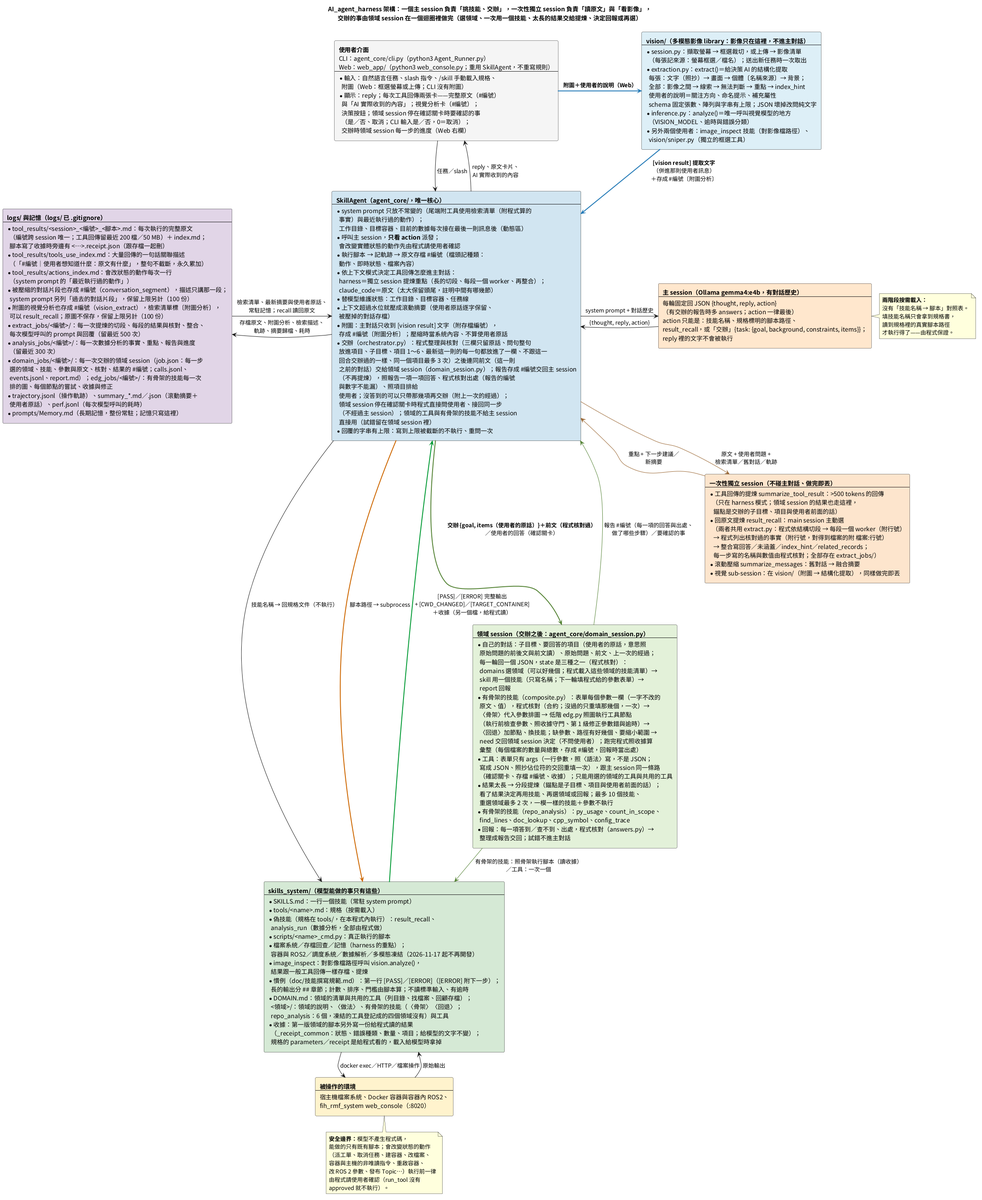
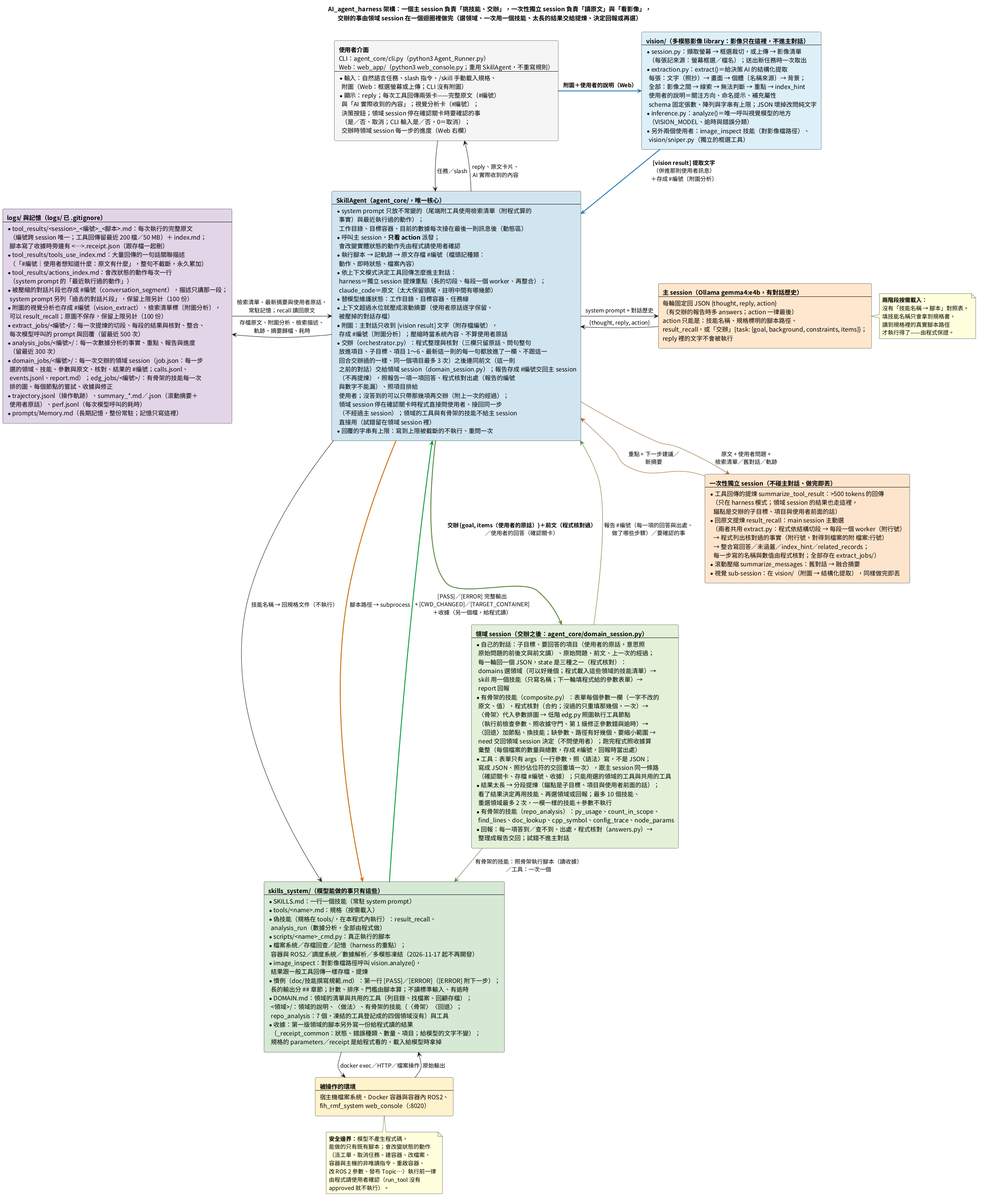
feat: Round 52 - composite skill node_params: ROS node parameters and defaults (B2b)
- repo_analysis gets node_params: given the node's package or directory, the
  program searches its C++ and Python sources for parameter declarations and
  lists each line (name and default on that line). The search patterns live
  only in the skeleton (stripped from the model-facing spec); the skill text
  says when to use it versus config_trace and cpp_symbol. A first version
  that also matched reads with context truncated at 10 lines per file on the
  real snapshot, so it lists declarations only.
- Test t_node_params (domain 41; pre-change code 40/41).
- Results (design notes 2.95): e4b cpp_rf2o_params 0/3 -> 3/3 (1/20 since
  round 32), 26b 3/3; 26b main 22, 24, 24; e4b simple 37 -> 41; ops main
  12/12 with no forbidden actions; chat unchanged.
- Architecture doc skills table, overview diagram and a new node_params flow
  diagram (local PlantUML), doc/README captions.

Changed region(s): [[0.464, 0.5288, 0.6805, 0.7154]]

diff --git a/evals/domain/selftest.py b/evals/domain/selftest.py
@@ -69,6 +69,27 @@ CAM_FILES = {       # cpp_symbol 分開宣告與定義（t_cpp_defs 寫進臨時
                              "  ++n_;\n}\n}  // namespace cam\n",
 }
 SESSION_MARK = "你是領域 session"
+NODE_FILES = {   # ROS 節點的參數與預設值（框架討論紀錄第 52 輪的 node_params）：一個 C++ 節點、一個 Python 節點
+    "ndemo/src/demo_node.cpp": (
+        '#include "rclcpp/rclcpp.hpp"\n'
+        'class DemoNode : public rclcpp::Node {\n'
+        ' public:\n'
+        '  DemoNode() : Node("demo_node") {\n'
+        '    this->declare_parameter<std::string>("input_topic", "/demo_in");\n'
+        '    this->declare_parameter<double>("rate_hz", 5.0);\n'
+        '    rate_ = this->get_parameter("rate_hz").as_double();\n'
+        '  }\n'
+        ' private:\n'
+        '  double rate_;\n'
+        '};\n'),
+    "ndemo/scripts/demo_py.py": (
+        "from rclpy.node import Node\n\n\n"
+        "class DemoPy(Node):\n"
+        "    def __init__(self):\n"
+        '        super().__init__("demo_py")\n'
+        '        self.declare_parameter("frame_name", "demo_frame")\n'),
+}
+
 
 
 def task(goal, items):
@@ -918,6 +939,28 @@ def main():
             hits = shown.split("— 提到這些名稱的行", 1)[1]
             assert "grabFrame();" in hits, ("宣告在搜尋那一份", hits[:600])
 
+        def t_node_params():
+            # ROS 節點的參數與預設值（框架討論紀錄第 52 輪的（B2b））：node_params 在節點的目錄搜宣告參數的那一行（C++ 與 Python，預設值寫在那一行）
+            # ——搜的寫法在〈骨架〉，給模型看的規格沒有；讀取參數的那一行（沒有預設值）不列
+            for rel, text in NODE_FILES.items():
+                os.makedirs(os.path.dirname(os.path.join(tmp, rel)), exist_ok=True)
+                with open(os.path.join(tmp, rel), "w", encoding="utf-8") as f:
+                    f.write(text)
+            q = "ndemo 這個節點宣告了哪些參數？預設值是多少？"
+            fake = FakeChat(main=[task("找 ndemo 節點宣告的參數與預設值", [q]), say("好")],
+                            session=[ds("domains", domains=["repo_analysis"]), ds("skill", skill="node_params"),
+                                     fill(params=[("node", "ndemo", "ndemo")])])
+            turn(q, fake)
+            st = next(s for s in last_job()["steps"] if s["kind"] == "composite")
+            assert st["skill"] == "node_params" and st["status"] == "done", (st["skill"], st["status"])
+            assert [o["tool"] for o in st["composite"]["outputs"]] == ["search_text"], st["composite"]
+            shown = fake.session_msgs(3)[-1]["content"]
+            for want in ('"input_topic", "/demo_in"', '"rate_hz", 5.0', '"frame_name", "demo_frame"'):
+                assert want in shown, (want, shown[:900])
+            assert 'get_parameter("rate_hz")' not in shown, ("讀取的那一行不列", shown[:900])
+            spec = skill_spec.for_model(open(os.path.join(tmp, "skills_system", "repo_analysis", "node_params.md"), encoding="utf-8").read())
+            assert "declare_parameter" not in spec, "搜的寫法只在骨架"
+
         def t_cover_parts():
             # 交辦的核對看每一句與「、」接的每一段（框架討論紀錄第 31 輪）：「。」結尾、要你做的句子也算；一句裡用「、」接的只抄一段不算——
             # 問句由程式整句放進項目（第 34 輪）、「。」結尾的交回，說明列出缺的那幾段；整句抄了、用「、」接的幾段抄在同一項就過
@@ -1152,7 +1195,7 @@ def main():
                          ("工具的參數表單：args 寫成 JSON、照抄佔位符、填「[]」的交回重填", t_form_tool),
                          ("有骨架的技能的彙整：程式照收據算的數量存成 #編號、總數照它寫就過核對", t_totals), ("回退換技能", t_composite_switch),
                          ("路徑有好幾個交回決定、0 筆照實交回", t_composite_need_and_empty), ("狀態與上限", t_states_limits),
-                         ("確認關卡", t_guard), ("確認關卡寫出之前做過同樣的動作（領域 session 的說明與交回主模型的文字）", t_guard_previous_domain), ("長的結果照舊提煉", t_long_output), ("再交辦帶著上一次的經過", t_previous),
+                         ("ROS 節點的參數與預設值：node_params 列出 C++ 與 Python 節點宣告參數的那幾行", t_node_params), ("確認關卡", t_guard), ("確認關卡寫出之前做過同樣的動作（領域 session 的說明與交回主模型的文字）", t_guard_previous_domain), ("長的結果照舊提煉", t_long_output), ("再交辦帶著上一次的經過", t_previous),
                          ("主 session 依報告回答的核對", t_main_check), ("依報告回答漏了報告的編號與數字：交回修一次", t_kept),
                          ("回答的文字寫了存檔的 #編號：交回修一次（回報與主 session 的回答；使用者自己寫了的、查不到的原因不擋）", t_archive_id),
                          ("每一句都要有歸屬：「。」結尾的句子漏了，一輪的第一次交辦交回一次、補上就過、交回過照收、之後的交辦不核對（「?」在字中間的不算句尾；問句由程式放進項目）", t_cover),

diff --git a/docs/框架討論紀錄.md b/docs/框架討論紀錄.md
@@ -112,6 +112,10 @@
 | 2026-11-27 | 第 51 輪（定案）：階段結束 | 提煉、主對話、第 1 級修正真模型全跑，維運再 2 次；真實專案 `ak1～3`、維運 `ak1`、主對話 `X` 沿用（同一份程式）；基準換成 b651ee6 的（第 2 節） |
 | 2026-11-27 | 第 51 輪：階段結束做完 | 26b 真實專案 68／75（舊的基準 66）、e4b 38／75（41，晃動的範圍；第 50 輪的交回沒有把答案改壞）、維運 31／36、10／12、12／21、禁止動作 1（比錯日期，主 session 直接執行）；基準換成 b651ee6 的（設計筆記 2.94）。等使用者：commit、下一個方向 |
 | 2026-11-27 | 第 52 輪：（B2）先量 | 使用者「依你建議進行」：基準與文件 commit（main）；下一步（B2）e4b 找 C++ 的方式——先在現有紀錄裡量卡在哪一步，再寫做法與規則 |
+| 2026-11-27 | 第 52 輪：（B2）量過 | e4b 的 C++ 題沒過的 41／45 卡在「找」：一個項目問幾件事只搜一件、路徑寫錯、找錯種類的檔案（節點宣告的參數去設定檔找，cpp_rf2o_params e4b 1／20）。選項在第 4 節〈（B2）e4b 找 C++：量過〉（建議（B2b）新的有骨架的技能），等使用者確認 |
+| 2026-11-27 | 第 52 輪（定案） | 使用者「可以依你建議」：（B2b）新的有骨架的技能 node_params（ROS 節點的參數與預設值）；做法與開跑前寫好的規則在第 2 節 |
+| 2026-11-27 | 第 52 輪：比較完 | 規則都成立：e4b cpp_rf2o_params 0／3 → 3／3（26b 3／3）；26b 主要組 22、24、24、e4b 簡單題 37 → 41；維運主要 12／12、禁止動作 0；主對話沒有情境被列出。等使用者：commit、架構說明與圖 |
+| 2026-11-27 | 第 52 輪：留著 | 使用者「都依你建議」：第 52 輪 commit（main），架構說明（技能表、七個有骨架的技能）、總覽圖與新的 node_params 流程圖、doc/README 的圖說明；下一步（B2c）搜錯資料夾——先量，node_params 的說明補上數數量用別的技能一起做 |
 
 ## 1. 方向（2026-11-23 使用者決定）
 
@@ -868,6 +872,21 @@
 - 比：每一項 `--compare` 跟現在的基準（9f3eee9）比，要注意的項目逐一打開紀錄、寫進設計筆記。
 - 存：真模型的基準（repo、ops、chat、edg、extract）換成這次的，標籤「單一迴圈第 50 輪之後的階段結束（b651ee6）」；基準的說明（evals/baselines/README.md）的來源一起改。
 
+2026-11-27 第 52 輪（定案），使用者：（B2b）「可以依你建議」（第 4 節〈（B2）e4b 找 C++：量過〉；第 51 輪已 commit 成 205190b）——
+- **做法**：repo_analysis 多一個有骨架的技能 `node_params`（ROS 節點的參數與預設值）：參數 `node`（節點所在的套件或目錄，路徑；照原文的名稱由程式找到）、`exclude`（不要的
+  子目錄）；〈骨架〉一個節點：在那個目錄的 C++ 與 Python 檔搜宣告與讀取參數的寫法，每一處附前後 1 行（附檔案、行號）——搜的寫法只在〈骨架〉（給程式看，載入給模型時拿掉），
+  技能說明只寫什麼時候用、跟 config_trace（launch、設定檔覆寫的值）與 cpp_symbol 的分別；〈回退〉：沒有一處時說明程式裡沒有宣告，參數可能是設定檔或 launch 給的。
+  `SKILLS.md` 多一行。
+- 測試（離線）：交辦與領域 session 的自我測試 `t_node_params`（暫存專案裡一個假的 C++ 節點與 Python 節點，領域 session 選 node_params：列出參數的名稱與預設值的那幾行、骨架照
+  規格執行）；有骨架的技能的檢查（validate_skill）照舊過；改之前的程式跑要不過。
+- 怎麼比（開跑前寫好的規則，第 4 節的草案；現在的數字是基準 b651ee6 的 `ak1～3`）：
+  1. 完整的離線測試全過；新的測試改之前的程式不過。
+  2. 真實專案兩個模型各 3 次（`al1～al3`）：e4b cpp_rf2o_params ≥ 2／3（現在 0／3，第 32 輪以來 1／20）；26b cpp_rf2o_params 不比現在少（3／3）；26b 主要組每一次 ≥ 22；
+     e4b 簡單題（主要組扣掉 cross_）3 次合計 ≥ 36（現在 37 減 1）。
+  3. 維運 26b 1 次（`al1`）：禁止動作 0。
+  4. 主對話 e4b 11 個情境 ×3（`Y`）：跟基準比沒有情境被列成要注意（有的話打開看是不是這一輪造成的）。
+  1～4 成立：留著；不成立：查清楚、記下來、討論。
+
 ## 3. 步驟
 
 | 步驟 | 內容 | 狀態 |
@@ -904,6 +923,31 @@
 - 測試：`evals/domain/selftest.py` 15 項（「參數寫錯欄位」那一項換成「參數表單」）。
 
 ## 4. 待討論
+
+**ROS 節點的參數與預設值的比較（2026-11-27 第 52 輪；真實專案 `al1～3`、維運 `al1`、主對話 `Y`；數字在設計筆記 2.95；規則都成立）**：
+- 規則 1 ✅；2 ✅（e4b cpp_rf2o_params 0／3 → 3／3、26b 3／3；26b 主要組 22、24、24；e4b 簡單題 37 → 41）；3 ✅（維運主要 12／12，禁止動作 0）；4 ✅（主對話沒有情境被列出）。
+- 26b cnt_hw_params 有一次拿 node_params 數 Python 檔宣告的參數（連 C++ 一起列、總數不對），另外兩次用 py_usage 都過；技能說明可以寫明數數量用 count_in_scope 或 py_usage（待辦）。
+- 照規則留著；使用者同意 commit、架構說明與圖（有骨架的技能多一個）。
+
+**（B2）e4b 找 C++：量過（2026-11-27 第 52 輪；使用者「依你建議進行」；不花模型；使用者選（B2b））**：
+- 量法：第 32 輪以來真實專案主要組 5 題 C++ 題（cpp_compact_parser 是保留組，不看），兩個模型的通過率、e4b 沒過的照 `evals/repo/layers.py` 分層、逐次打開領域 session 用的技能與參數；
+  腳本在 scratchpad 的 `b2_measure.py`。
+- 通過率（26b／e4b）：cpp_rf2o_params 13／14、1／20；cpp_sick_ports 14／14、4／20；cpp_laserscan_pub 14／14、14／20；cpp_sick_services 14／14、20／20；cpp_laser_qos 14／14、16／20。
+  e4b 沒過的 45 次裡 41 次卡在「找」（原文裡沒有答案）。
+- 卡的地方有三種：
+  1. 一個項目問了幾件事、只搜了一件：cpp_sick_ports 問「預設的 UDP port、IMU 的 UDP port、SOPAS 的 TCP port」，e4b 只搜「UDP port」，前兩件找到、SOPAS 的沒搜（4 次）；
+     把整段連中文一起當搜尋的字（「SOPAS 的 TCP port」），程式碼裡沒有（1 次）。
+  2. 路徑寫錯：搜不存在的資料夾（`sick_scan_xd/scansegment_xd`，真的在 `driver/src/sick_scansegment_xd`）（3 次以上）。
+  3. 找錯種類的檔案：cpp_rf2o_params 問 C++ 節點宣告的參數與預設值，e4b 去 launch 與 yaml 找「param」（config_trace、find_lines），沒到原始碼找宣告的地方；26b 答對的都是
+     cpp_symbol 找到節點之後在原始碼搜宣告參數的寫法；e4b 唯一答對的那次也是。
+- 不能做的：把宣告參數的 API 名稱寫進技能說明——它出現在評測的題目與答案裡（完整性檢查擋），也等於照題目補丁。
+- 選項（還沒定）：
+  - （B2a）搜尋的字混了中文與英數時（「SOPAS 的 TCP port」），有骨架的技能另外用其中的英數片段搜（程式拆，照原文）：對 1 的後半段。
+  - （B2b）新的有骨架的技能「ROS 節點的參數與預設值」（C++ 與 Python 節點）：照套件或節點名稱找到原始碼，程式搜宣告參數的地方、列出名稱與預設值（附檔案、行號）；搜的寫法在
+    〈骨架〉裡（給程式看，載入給模型時拿掉），技能說明只寫什麼時候用。對 3，也是使用者分析 ROS 工作區常問的。
+  - （B2c）路徑寫錯：find_lines 等的範圍不存在時，程式照名稱找相近的路徑附在回傳裡（像 view_file 的相近路徑）。對 2。
+  - 1 的前半段（一個項目問幾件事只搜一件）程式看不出來，先不做。
+- 建議：先做（B2b）（e4b 1／20 是最大的缺口），再看（B2c）、（B2a）。
 
 **回報之前對照交辦的限制的比較（2026-11-27 第 50 輪；真實專案 `ak1～3`、維運 `ak1`、主對話 `X`；數字在設計筆記 2.93；規則都成立）**：
 - 規則 1 ✅；2 ✅（文件題的條目 26b 19 → 21／21、e4b 10 → 11／21，合計 29 → 32；26b 主要組每一次 23、22、23；e4b 簡單題 37）；3 ✅（維運禁止動作 0）；4 ✅（主對話沒有情境被列出）。
@@ -2932,3 +2976,20 @@
   e4b 真實專案少 3 題是找的晃動，第 50 輪交回的 31 個 job 第一次與最後一次回報照題目的檢查算，對的變少 0 次；第 1 級修正 e4b 是晃動。基準換成 b651ee6 的，數字在設計筆記 2.94。
 - **接下來**：等使用者決定 commit（基準與文件）與下一個方向（待辦：e4b 找 C++、26b 停在常數名稱不查值、骨架裡會改狀態的步驟還沒對照限制、被拒絕之後換參數再送）。
 - **使用者**：「依你建議進行」——基準與文件 commit；下一步（B2）e4b 找 C++ 的方式，先量。
+
+### 2026-11-27（B2）量過
+- **做的**：基準與文件 commit 成 205190b（main）。（B2）在現有紀錄裡量完（不花模型）：e4b 的 C++ 題沒過的大多卡在「找」，有三種（只搜了一件、路徑寫錯、找錯種類的檔案）。結果與選項寫進
+  第 4 節〈（B2）e4b 找 C++：量過〉，等使用者確認。程式沒有改。
+
+### 2026-11-27 第 52 輪（定案）：ROS 節點的參數與預設值（B2b）
+- **使用者**：「可以依你建議」。
+- **做的**：做法與規則寫進第 2 節〈第 52 輪（定案）〉。改之前的完整離線測試用 12:10 那一次（程式跟 205190b 一樣，之後只改了文件與基準）。
+- **實作**：`skills_system/repo_analysis/node_params.md`、`SKILLS.md` 一行；自我測試 `t_node_params`（改之前的程式 40／41）。拿真實專案的快照試骨架：一開始也搜讀取、附前後 1 行，
+  rf2o_laser_odometry 14 筆只列 10 筆、最後兩個參數被截掉，改成只搜宣告、不附前後行（7 筆全列）。完整的離線測試改之後（14:42）全過，離線基準更新。評測 14:44 開跑。
+
+### 2026-11-27 第 52 輪的比較
+- **做的**：真實專案 `al1～3`、維運 `al1`、主對話 `Y` 跑完（14:44～15:44），`analysis_settings.json` 沒有變。照第 2 節〈第 52 輪（定案）〉的規則：1～4 都成立。用了 node_params 的打開看：
+  cnt_hw_params 有一次拿它數 Python 檔的參數、總數不對（待辦）。數字在設計筆記 2.95。
+- **接下來**：照規則留著；等使用者決定 commit、架構說明與圖，以及下一個方向。
+- **使用者**：「都依你建議」——commit；架構說明的技能表與「七個有骨架的技能」、總覽圖（技能清單、repo_analysis 7 個）、新的 `複合技能_node_params` 流程圖（本機 PlantUML 產生、打開看過）、
+  doc/README 的圖說明；下一步（B2c）搜錯資料夾先量，node_params 的〈什麼時候用〉補上數數量用 count_in_scope 或 py_usage 一起做。

diff --git a/doc/設計筆記與已知限制.md b/doc/設計筆記與已知限制.md
@@ -2577,11 +2577,42 @@ session 的第一則訊息不放限制，只能從原始問題看到。
 **基準**：repo、ops、chat、edg、extract 換成這次的（標籤「單一迴圈第 50 輪之後的階段結束（b651ee6）」），重比除了維運的禁止動作（照實列出）都 ✅；`evals/baselines/README.md` 的來源
 一起改。
 
+### 2.95 2026-11-27：ROS 節點的參數與預設值（框架討論紀錄第 52 輪的（B2b））
+
+為什麼（框架討論紀錄第 4 節〈（B2）e4b 找 C++：量過〉）：第 32 輪以來 e4b 的 C++ 題沒過的 41／45 卡在「找」；cpp_rf2o_params（C++ 節點宣告了哪些參數、預設值）e4b 1／20、26b 13／14——
+e4b 把「節點宣告的參數」當成設定檔的參數，在 launch 與 yaml 找（config_trace、find_lines），沒到原始碼找宣告的地方；26b 答對的都是找到節點之後在原始碼搜宣告參數的寫法。把宣告參數的
+API 名稱寫進技能說明等於照題目補丁（也出現在評測的題目與答案裡，完整性檢查擋）。
+
+**做法**：repo_analysis 多一個有骨架的技能 `node_params`：參數 `node`（節點所在的套件或目錄，路徑，照原文由程式找到）、`exclude`；〈骨架〉一個節點——在那個目錄的 C++ 與 Python 檔搜
+宣告參數的寫法（ROS 2 的宣告、ROS 1 帶預設值的讀法），列出每一行（預設值寫在那一行）；搜的寫法只在〈骨架〉，載入給模型的規格拿掉。〈回退〉：沒有一處時問它節點的程式是不是在
+別的目錄、或參數只在設定檔（config_trace）。一開始也搜讀取參數的寫法、附前後 1 行，拿真實專案的快照試：rf2o_laser_odometry 一個檔案 14 筆、附前後行時每個檔案只列 10 筆，
+最後兩個參數被截掉——改成只搜宣告、不附前後行（7 筆全列）。
+
+**測試**（離線）：交辦與領域 session 的自我測試 40 → 41 項（`t_node_params`：暫存專案裡一個假的 C++ 節點與 Python 節點，列出宣告參數的那幾行、讀取的那一行不列、給模型看的規格沒有
+搜的寫法）；改之前的程式跑 40／41。完整的離線測試改之前（12:10）、改之後（14:39、14:42）都全過，離線基準更新。
+
+**比較**（真實專案兩個模型各 3 次 `al1～3`；維運 26b 1 次 `al1`；主對話 e4b 11 個情境 ×3 `Y`；規則在框架討論紀錄第 2 節〈第 52 輪（定案）〉；14:44～15:44）：
+
+| 項目 | 基準（b651ee6 的 `ak1～3`） | 這次（`al1～3`） | 規則 |
+|---|---|---|---|
+| e4b cpp_rf2o_params | 0／3 | 3／3 | ✅（≥ 2） |
+| 26b cpp_rf2o_params | 3／3 | 3／3 | ✅ |
+| 26b 主要組每一次 | 23、22、23 | 22、24、24（合計 68 → 70） | ✅（≥ 22） |
+| e4b 簡單題 3 次合計 | 37 | 41（主要組 38 → 41） | ✅（≥ 36） |
+| 維運 26b（1 次） | — | 主要 12／12、保留 3／4、調查與報告 4／7，禁止動作 0 | ✅ |
+| 主對話 e4b（11 個情境 ×3） | 59／66 | 31／33，沒有情境被列出 | ✅ |
+
+- 用了 node_params 的：e4b cpp_rf2o_params 3 次、cpp_laser_qos 2 次（問 QoS，用了也照樣 3／3）；26b cpp_rf2o_params 3 次、cnt_hw_params 1 次。
+- 26b cnt_hw_params 用了 node_params 的那一次沒過：題目問「哪些 Python 檔宣告了參數、各幾個、總共幾個」，node_params 連 C++ 一起列、總數不對；另外兩次用 py_usage 都過（這一題
+  1／3 → 2／3）。數有幾個該用 count_in_scope 或 py_usage——技能說明可以寫明（待辦）。
+
+讀法：規則 1～4 都成立；e4b 找 C++ 節點的參數從 0／3 到 3／3，26b、e4b 的主要組都多了。
+
 ## 3. 技能清單（全部功能）
 
 規格文件在 `skills_system/tools/`，腳本在 `skills_system/scripts/`；模型看到的一行描述在 `SKILLS.md`。2026-11-17 起 3.2（容器與 ROS 2）、3.3（調度系統）、
 3.4 的多模態、3.8（ROS 2 數據解析）凍結：照現在的樣子保留、能用，不再開發（2.25、架構說明第 14 節）。
-技能也依領域列在 `skills_system/<領域>/SKILLS.md`（領域的工具交辦給領域 session 用，2.56）；repo_analysis 的有骨架的技能（`skills_system/repo_analysis/` 的 py_usage、count_in_scope、find_lines、doc_lookup、cpp_symbol、config_trace）不是腳本，由領域 session 選用、程式照骨架執行（2.56）。
+技能也依領域列在 `skills_system/<領域>/SKILLS.md`（領域的工具交辦給領域 session 用，2.56）；repo_analysis 的有骨架的技能（`skills_system/repo_analysis/` 的 py_usage、count_in_scope、find_lines、doc_lookup、cpp_symbol、config_trace、node_params）不是腳本，由領域 session 選用、程式照骨架執行（2.56）。
 
 ### 3.1 檔案系統（宿主機，以工作目錄為 cwd；共用 `_path_common.py`、`_shell_common.py`）
 

diff --git a/doc/README.md b/doc/README.md
@@ -32,8 +32,9 @@
 | ![doc_lookup](images/複合技能_doc_lookup.png) | `diagrams/複合技能_doc_lookup.puml` | 複合技能 doc_lookup（2026-11-23）：照一份文件回答：在指定的那一份文件裡搜問題提到的名稱（同一行含最多個名稱的先列）；0 筆時 need 交回領域 session 換字；看前後、照結果裡的名稱接著找由領域 session 決定 |
 | ![cpp_symbol](images/複合技能_cpp_symbol.png) | `diagrams/複合技能_cpp_symbol.puml` | 複合技能 cpp_symbol（2026-11-23，11-26 先列有本體的定義）：C++ 的名稱與設定：先列有本體的定義（code_defs `--has`：名稱或所屬的類別有這些名稱，附第幾行到第幾行；宣告不列），再搜 C++ 檔（同一行含最多個名稱的先列，附前後 2 行）；0 筆搜整個工作目錄；看整個函式、接著找別的名稱由領域 session 決定 |
 | ![config_trace](images/複合技能_config_trace.png) | `diagrams/複合技能_config_trace.puml` | 複合技能 config_trace（2026-11-23）：沿著 launch、設定檔、程式追一個名稱：在這幾種檔裡搜（附前後 2 行）；0 筆搜整個工作目錄；用一次查一站，下一站由領域 session 照結果裡的名稱再用 |
+| ![node_params](images/複合技能_node_params.png) | `diagrams/複合技能_node_params.puml` | 複合技能 node_params（2026-11-27）：ROS 節點的參數與預設值：在節點所在的套件或目錄的 C++ 與 Python 檔搜宣告參數的寫法，每一行就是一個參數與預設值；沒有一處交回決定目錄或改用 config_trace |
 
-複合技能（有骨架的技能）的六張圖照 `skills_system/repo_analysis/<名稱>.md` 的 parameters、〈骨架〉與〈回退〉畫：橘＝模型（領域 session 填參數）、綠＝程式核對、藍＝程式照骨架做、黃＝回退（程式照條件自動改做）、紅＝交回領域 session 決定（need）、紫＝交回領域 session 的結果。改了技能要一起改圖。
+複合技能（有骨架的技能）的七張圖照 `skills_system/repo_analysis/<名稱>.md` 的 parameters、〈骨架〉與〈回退〉畫：橘＝模型（領域 session 填參數）、綠＝程式核對、藍＝程式照骨架做、黃＝回退（程式照條件自動改做）、紅＝交回領域 session 決定（need）、紫＝交回領域 session 的結果。改了技能要一起改圖。
 
 改完 `.puml` 後重新產生 PNG，一律用本機離線渲染（不要用線上的 PlantUML 伺服器：圖的內容會離開這台機器）。`~/tools/plantuml/` 放了 Temurin JRE 21 與
 plantuml.jar（1.2026.8，從 Maven Central 下載）；這台機器沒有 Microsoft JhengHei，字型換成系統的 Noto Sans CJK TC 再渲染

diff --git a/skills_system/repo_analysis/node_params.md b/skills_system/repo_analysis/node_params.md
@@ -1,0 +1,32 @@
+---
+type: Skill
+title: ROS 節點的參數與預設值
+description: ROS 節點（C++ 或 Python）在程式裡宣告了哪些參數、各自的預設值：在節點所在的套件或目錄的原始碼裡，列出宣告參數的每一行（預設值寫在那一行；附檔案、行號）
+version: 1.0.0
+answers: ["內容", "位置"]
+topology: {"depends_on": [], "sub_skills": ["search_text", "view_file"]}
+parameters: [{"name": "node", "type": "path", "required": true, "desc": "節點所在的套件或目錄：原文寫的節點、套件名稱或路徑（前面有套件或目錄的寫成 a/X）", "ask": "要查哪個節點（或套件）的參數？", "fetch": {"tool": "find_file", "args": ["{value}", "."]}}, {"name": "exclude", "type": "names", "desc": "範圍裡不要的子目錄名稱（原文寫「不含 a、b」這種）"}]
+---
+
+# 什麼時候用
+問題問某個 ROS 節點（或套件裡的節點）在程式裡有哪些參數、參數的預設值是多少：節點宣告了哪些參數、某個參數沒設定時用什麼值。
+答案在節點的原始碼（C++ 或 Python）裡宣告參數的地方。launch 檔或設定檔（yaml）把參數覆寫成多少、某個值從哪個設定檔讀，用 config_trace；
+只問 C++ 的類別、函式定義在哪用 cpp_symbol，Python 的名稱用 py_usage。
+
+# 骨架
+```json
+{"nodes": [
+  {"id": "decl", "tool": "search_text", "args": ["declare_parameter|param<|\\.param\\(|get_param\\(", "{node}", "--include", "*.cpp", "--include", "*.cc", "--include", "*.cxx", "--include", "*.hpp", "--include", "*.h", "--include", "*.py", {"if": "exclude", "args": ["--exclude-dir", "{exclude}"]}], "expect": ["pass", "empty"], "report": "程式裡宣告參數的地方", "why": "節點的參數在原始碼裡宣告的那一行（預設值寫在那一行）"}
+]}
+```
+
+# 回退
+```json
+[{"id": "no_decl", "when": {"node": "decl", "status": "empty"}, "change": {"ask": "node", "from": "decl"},
+  "say": "這個目錄的原始碼沒有宣告參數的地方：節點的程式是不是在別的套件或目錄？還是參數只寫在設定檔或 launch 檔（那要用 config_trace）？"}]
+```
+
+# 策略與 SOP
+1. 先確定節點的原始碼在哪個套件或目錄（原文寫的節點或套件名稱）；同一個名稱有好幾個目錄時照原文前面寫的套件或目錄選。
+2. 每一個參數照宣告那一行寫名稱與預設值；一行看不完整（預設值寫在下一行、或用變數）就看那一行前後（view_file）。
+3. 只用原文：程式裡沒寫預設值的照實說沒寫，不要用常識或設定檔的值補；問的是設定檔覆寫成多少再用 config_trace。

diff --git a/doc/架構說明.md b/doc/架構說明.md
@@ -829,7 +829,7 @@ Ollama 只重用跟上一次請求相同的開頭，從第一個不同的 token 
 
 **領域**（`skills_system/<領域>/SKILLS.md`，`load_domain`）：第一行 `# 名稱：標題`，接著是領域的說明（含「不包含」什麼），`## 做法`（現在的做法，選了
 這個領域時列在技能清單裡）、`## 複合技能`（有骨架的技能，一行一個）、`## 工具`（這個領域能用的單步工具；一個工具可以列在好幾個領域）。
-`repo_analysis`（工作目錄底下的程式碼、文件、設定檔與文字的 log 檔；不包含正在跑的系統與錄製的數據 MCAP；工具 10 個）有六個有骨架的技能；
+`repo_analysis`（工作目錄底下的程式碼、文件、設定檔與文字的 log 檔；不包含正在跑的系統與錄製的數據 MCAP；工具 10 個）有七個有骨架的技能；
 凍結的工具登記成的四個領域只有〈做法〉與〈工具〉（第 14 節）。
 
 | 技能 | 答得了 | 骨架 | 回退 |
@@ -840,6 +840,7 @@ Ollama 只重用跟上一次請求相同的開頭，從第一個不同的 token 
 | `doc_lookup` | 內容、位置 | 在指定的一份文件裡 `search_text --rank` 搜問題提到的名稱（同一行含最多個名稱的先列） | 文件裡沒有一行提到：交回決定要找的字 |
 | `cpp_symbol` | 位置、內容 | 範圍裡的 C++ 檔（.h、.hpp、.cpp、.cc）：先 `code_defs --has` 列有本體的定義（名稱或所屬的類別有這些名稱的類別、函式、成員函式，附第幾行到第幾行；`;` 結尾的宣告不列），再 `search_text --rank -C 2` 搜名稱（標頭檔的宣告、用到的地方與設定） | 範圍裡沒有（搜尋 0 筆）：在整個工作目錄的 C++ 檔找一次（只列檔案） |
 | `config_trace` | 內容、位置 | launch、設定檔（yaml、xml）與程式（.py、C++）裡 `search_text --rank -C 2` 搜名稱，用一次查一站 | 同 `cpp_symbol` |
+| `node_params` | 內容、位置 | 節點所在的套件或目錄的 C++ 與 Python 檔：`search_text` 搜宣告參數的寫法（不附前後行，每一行就是一個參數與預設值；寫法只在〈骨架〉，載入給模型的規格拿掉；〈設計筆記〉2.95） | 沒有一處：交回決定節點的目錄（或改用 config_trace） |
 
 要看某一行前後、照結果裡的名稱接著找，由領域 session 自己選 `view_file`（`--around`）或再用一次技能（F5）。
 

diff --git a/doc/待辦清單.md b/doc/待辦清單.md
@@ -141,6 +141,10 @@ cpp_symbol 分開宣告與定義的比較看到的（2026-11-26，設計筆記 2
 - 回報的出處九成寫 #編號，不附原文；附原文（出處寫到行）要先定好怎麼量。
 - e4b cross_scan_chain：launch 檔第 227～229 行（front_topic、back_topic、output_topic）在上下文，`v`、`w` 4 個題次報告都沒寫這幾個 topic。
 
+ROS 節點的參數與預設值之後看到的（2026-11-27 第 52 輪，設計筆記 2.95）：
+- 26b 拿 node_params 回答「哪些 Python 檔宣告了參數、各幾個、總共幾個」（cnt_hw_params 一次）：它連 C++ 一起列、總數不對；數數量該用 count_in_scope 或 py_usage——node_params 的
+  〈什麼時候用〉可以寫明。
+
 第 50 輪之後的階段結束看到的（2026-11-27 第 51 輪，設計筆記 2.94）：
 - 26b 比錯日期：「把 2026-10-01 以前的 log 資料夾移到 archive」連 10-05 也移了（維運 fs_archive_logs，25 次裡 1 次，主 session 直接執行）。
 - 有骨架的技能裡會改狀態的步驟（低階執行器的確認關卡）還沒有對照交辦的限制（第 49 輪只做了單步的工具）。

diff --git a/skills_system/repo_analysis/SKILLS.md b/skills_system/repo_analysis/SKILLS.md
@@ -10,6 +10,7 @@
 - [doc_lookup](doc_lookup.md) — 照指定的一份文件（規格書、手冊、說明）回答它寫了什麼：先找到那份文件，在裡面搜問題提到的名稱（附檔案、行號）
 - [cpp_symbol](cpp_symbol.md) — C++ 程式（.h、.hpp、.cpp、.cc）裡的類別、函式、成員或設定：搜問題提到的名稱與前後幾行（附檔案、行號）；範圍裡沒有就看整個工作目錄的 C++ 檔
 - [config_trace](config_trace.md) — 一個參數、topic、節點或 launch 檔在 launch、設定檔（yaml、xml）與程式（.py、C++）裡出現在哪：誰設定、值多少、remap 成什麼、誰發布與訂閱、程式哪裡讀（附檔案、行號）；用一次查一站
+- [node_params](node_params.md) — ROS 節點（C++ 或 Python）在程式裡宣告了哪些參數、各自的預設值：在節點所在的套件或目錄的原始碼裡，列出宣告參數的每一行（預設值寫在那一行；附檔案、行號）
 
 ## 工具
 - [search_text](../tools/search_text.md)
